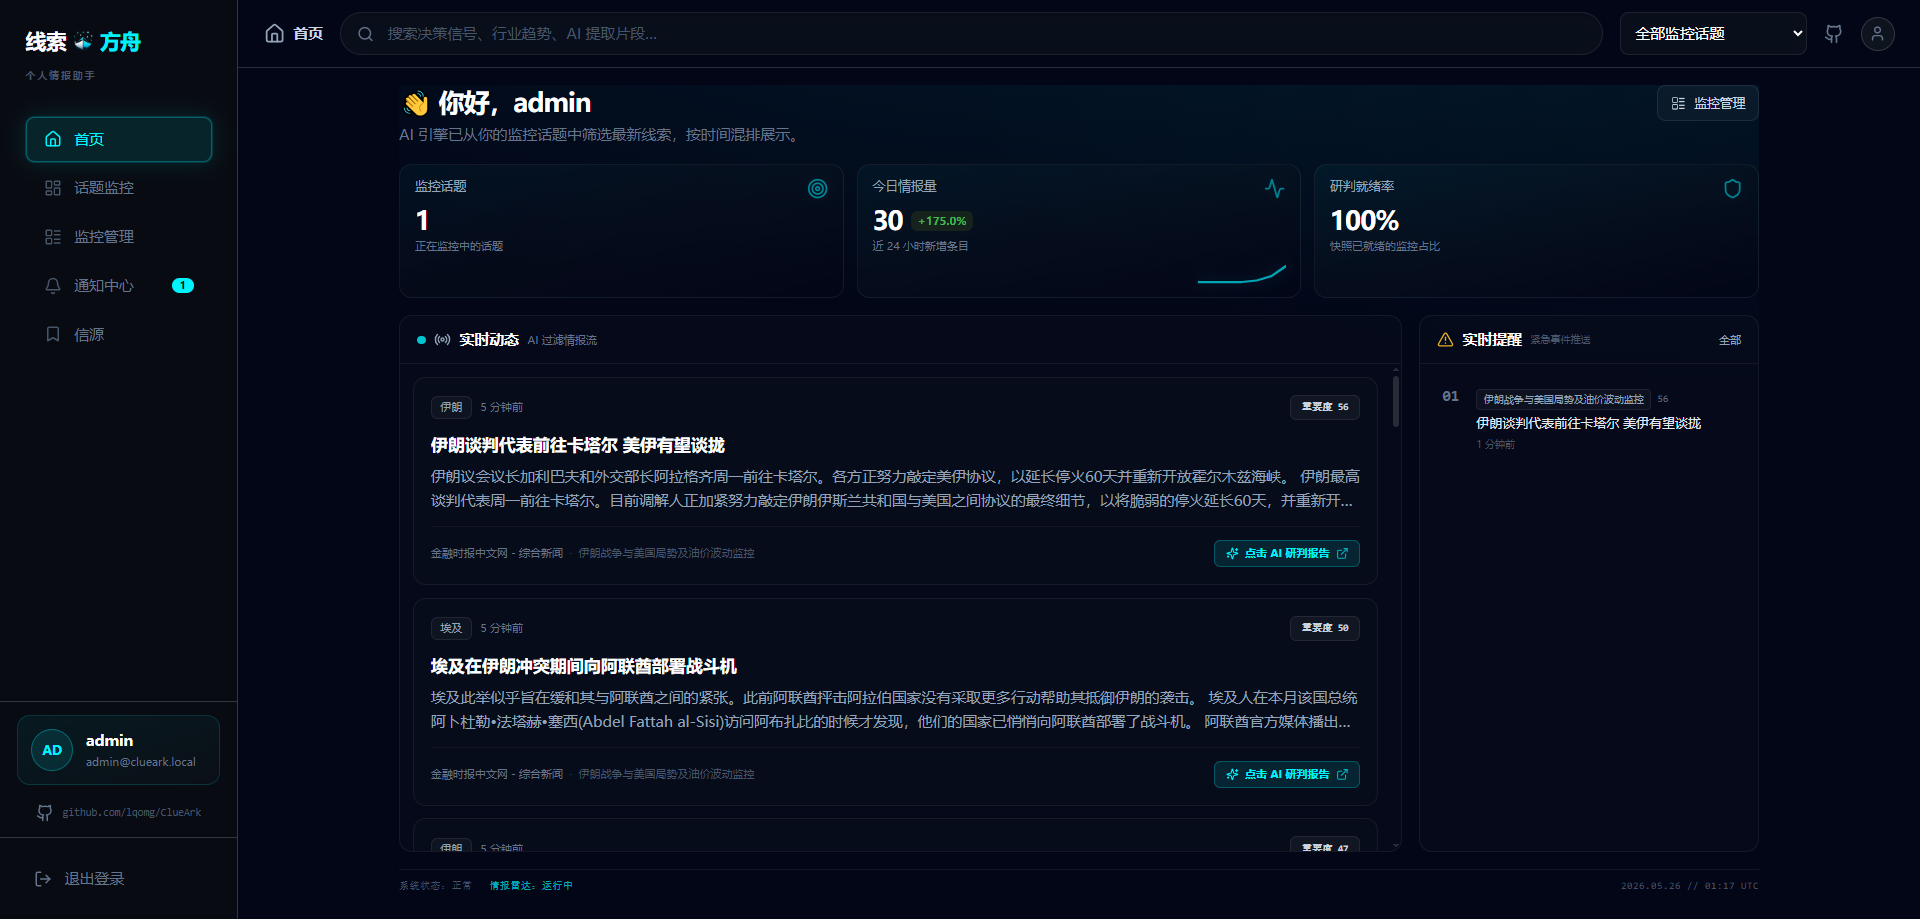
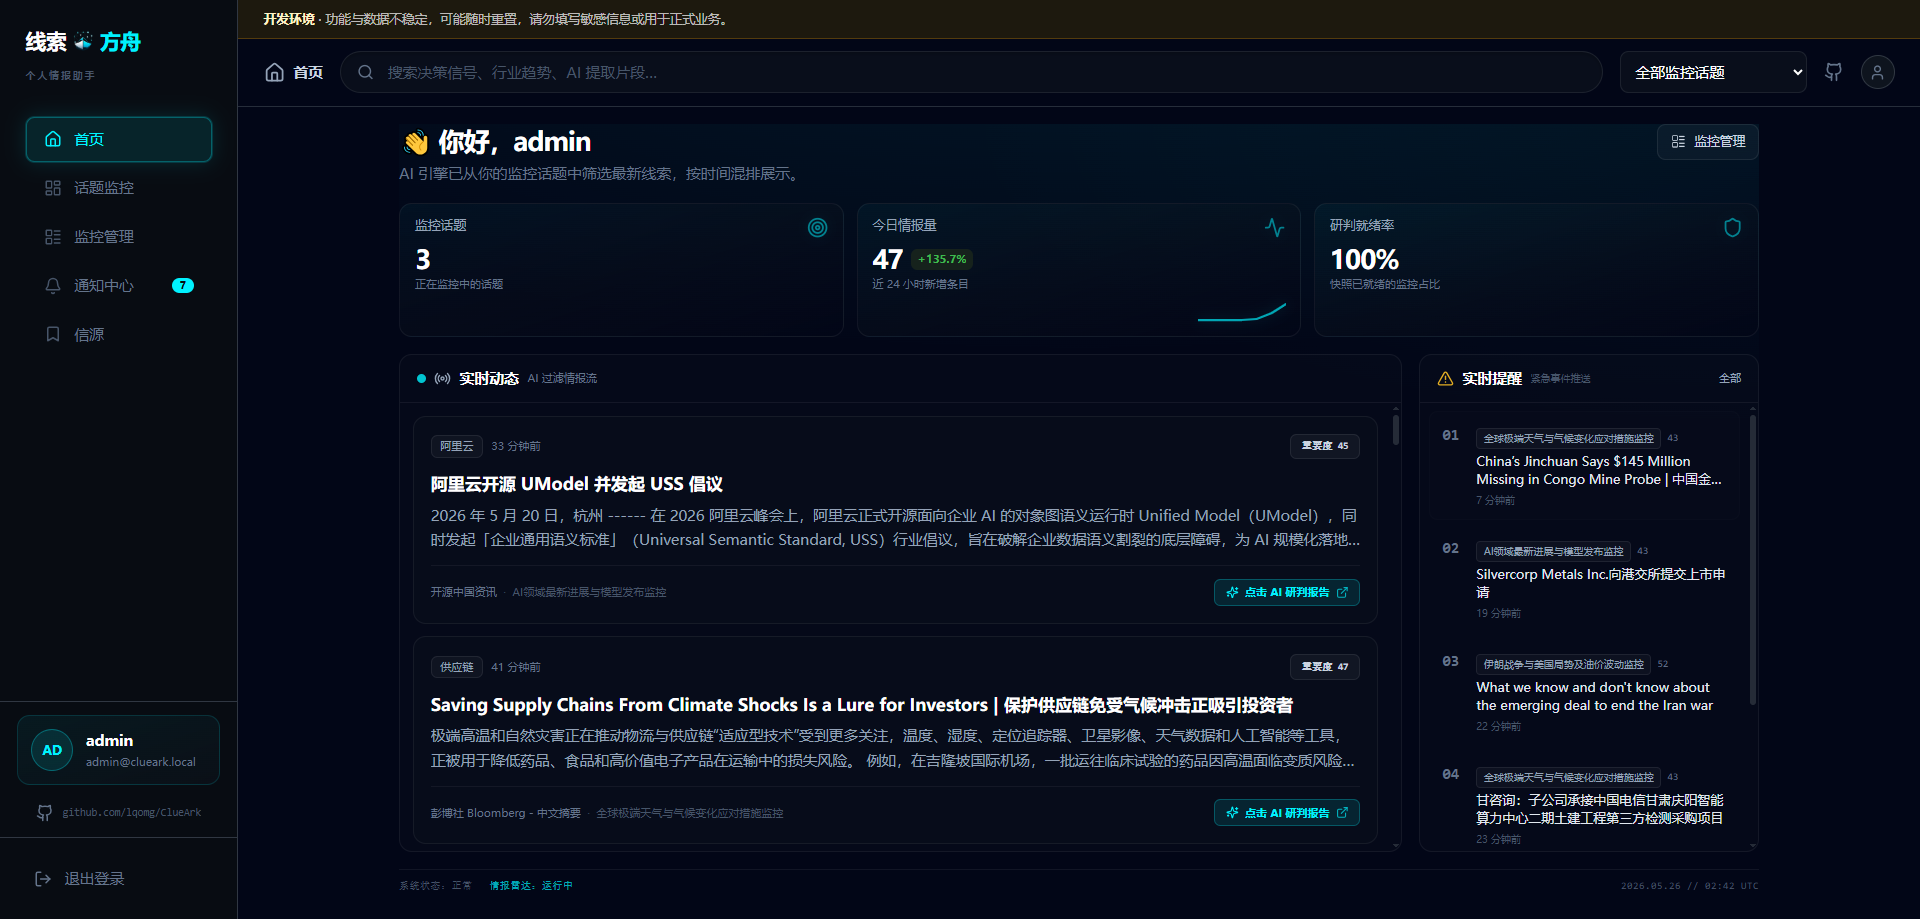
docs: Expand README with roadmap section detailing shipped and planned features

diff --git a/README.md b/README.md
@@ -39,6 +39,43 @@
 - **Docker 一键部署**：MongoDB、Redis、Qdrant、API、Worker、用户前端、运营后台与爬虫默认同栈启动。
 - **邮箱验证码**：注册 / 登录 / 找回密码；未配置 SMTP 时验证码写入后端日志，便于本地开发。
 
+## 路线图
+
+> 状态说明：`[x]` 已实现 · `[ ]` 规划中 · `[~]` 部分完成
+
+### 已实现
+
+- [x] **AI 话题监控**：一句话创建监控；LLM 自动扩写说明、规划并绑定信源
+- [x] **多类公开信源**：RSS/Atom 增量拉取、Web 列表页爬虫（Cheerio + CSS 选择器）、JSON 热点 API（`hot_api`）
+- [x] **内置信源目录**：50+ 中英文 RSS 与 Web 示例（见 `data/built-in-catalog.json`）
+- [x] **语义匹配与聚类**：Embeddings + Qdrant 向量检索；相似报道增量聚簇
+- [x] **LLM 条目富化**：异步生成摘要、推荐语等（不阻塞匹配推送）
+- [x] **匹配推送与应用内通知**：按监控语义匹配推送，支持去重与冷却
+- [x] **研判摘要（Brief）**：异步生成滚动时间窗研判报告（默认近 7 日）
+- [x] **监控快照读模型**：列表与总览高性能读取（`monitor_snapshots`）
+- [x] **用户时区**：个人资料可设 IANA 时区，列表/趋势按用户日历分桶
+- [x] **独立运营后台**：用户、监控、信源与任务审计（与用户产品分离）
+- [x] **Docker Compose 一键部署**：MongoDB、Redis、Qdrant、API、Worker、前端、爬虫同栈
+- [x] **邮箱验证码**：注册 / 登录 / 找回密码（未配 SMTP 时验证码写日志，便于本地开发）
+- [x] **异步任务流水线**：BullMQ（采集 → 向量化 → 匹配 → 通知 / 富化）
+
+### 规划中
+
+- [ ] **社交平台原生接入**
+  - [ ] **X（Twitter）**：账号时间线、关键词搜索或列表页采集
+  - [ ] **微博**：博主动态、话题/热搜监控
+  - [ ] **微信公众号**：订阅号/服务号文章列表（在合规前提下）
+  - [ ] 其他：知乎、今日头条、小红书等（按优先级逐步接入）
+- [ ] **产品国际化（i18n）**
+  - [~] 后端已接入 `nestjs-i18n`（错误/通知等，含 zh-CN、en、ja、ko）
+  - [ ] 用户前端界面多语言切换（英文优先，再扩展其他语言）
+  - [ ] 运营后台多语言
+- [ ] **更多内置平台信源**：热点 API 模板与常用平台预置配置
+- [ ] **Brief 日历窗口**：按日/周/月日历边界的研判报告（`calendar_range`）
+- [ ] **实时通知**：SSE / WebSocket 替代当前轮询未读数
+
+欢迎通过 [Issue](https://github.com/lqomg/ClueArk/issues) 讨论优先级或认领任务；架构约定见 [AGENTS.md](AGENTS.md)。
+
 ## 信源类型
 
 | 类型 | 说明 |

diff --git a/README_EN.md b/README_EN.md
@@ -33,6 +33,43 @@ Demo: [https://clueark.com](https://clueark.com)
 - **Docker one-command deploy**: MongoDB, Redis, Qdrant, API, worker, user web, admin console, and crawler start together by default.
 - **Email OTP auth**: Registration, login, and password reset; when SMTP is unset, codes are logged for local development.
 
+## Roadmap
+
+> `[x]` shipped · `[ ]` planned · `[~]` partial
+
+### Shipped
+
+- [x] **AI topic monitors**: One-sentence intent → LLM brief, source planning, and binding
+- [x] **Multiple public source types**: RSS/Atom, web list crawler (Cheerio + CSS selectors), JSON hot-topic API (`hot_api`)
+- [x] **Built-in source catalog**: 50+ Chinese/English RSS and web examples (`data/built-in-catalog.json`)
+- [x] **Semantic matching & clustering**: Embeddings + Qdrant; incremental similar-article clustering
+- [x] **LLM item enrichment**: Async summaries and recommendation copy (does not block match notifications)
+- [x] **Match notifications**: In-app alerts with dedupe and cooldown
+- [x] **Intelligence briefs**: Async rolling-window reports (default: last 7 days)
+- [x] **Monitor snapshot read model**: Fast list/overview reads (`monitor_snapshots`)
+- [x] **User timezone**: IANA timezone in profile; lists and trends bucketed by user calendar
+- [x] **Standalone admin console**: Users, monitors, sources, and job audit
+- [x] **Docker Compose deploy**: MongoDB, Redis, Qdrant, API, worker, frontends, and crawler in one stack
+- [x] **Email OTP auth**: Registration, login, and password reset
+- [x] **Async job pipeline**: BullMQ (ingest → embed → match → notify / enrich)
+
+### Planned
+
+- [ ] **Native social platform integrations**
+  - [ ] **X (Twitter)**: Timelines, keyword search, or list-page ingestion
+  - [ ] **Weibo**: Author feeds, topics, and trending monitors
+  - [ ] **WeChat Official Accounts**: Subscription/service account article lists (where compliant)
+  - [ ] More: Zhihu, Toutiao, Xiaohongshu, etc. (phased rollout)
+- [ ] **Product i18n**
+  - [~] Backend `nestjs-i18n` for errors/notifications (zh-CN, en, ja, ko)
+  - [ ] User-facing UI localization (English first, then more languages)
+  - [ ] Admin console localization
+- [ ] **More built-in platform sources**: Hot API templates and preset configs
+- [ ] **Calendar-based brief windows**: Daily/weekly/monthly briefs (`calendar_range`)
+- [ ] **Real-time notifications**: SSE / WebSocket instead of polling unread counts
+
+Discuss priorities or pick up tasks via [Issues](https://github.com/lqomg/ClueArk/issues). See [AGENTS.md](AGENTS.md) for architecture conventions.
+
 ## Source types
 
 | Type | Description |